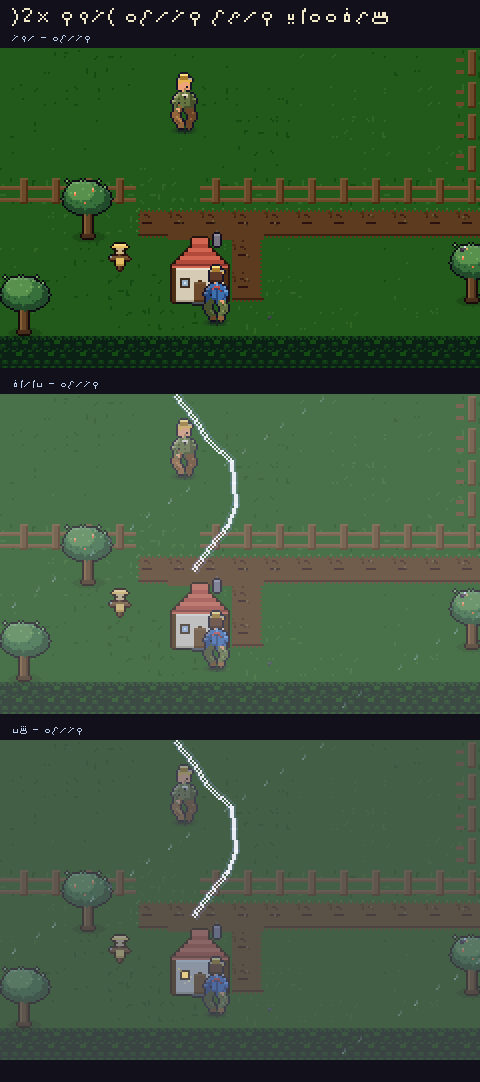
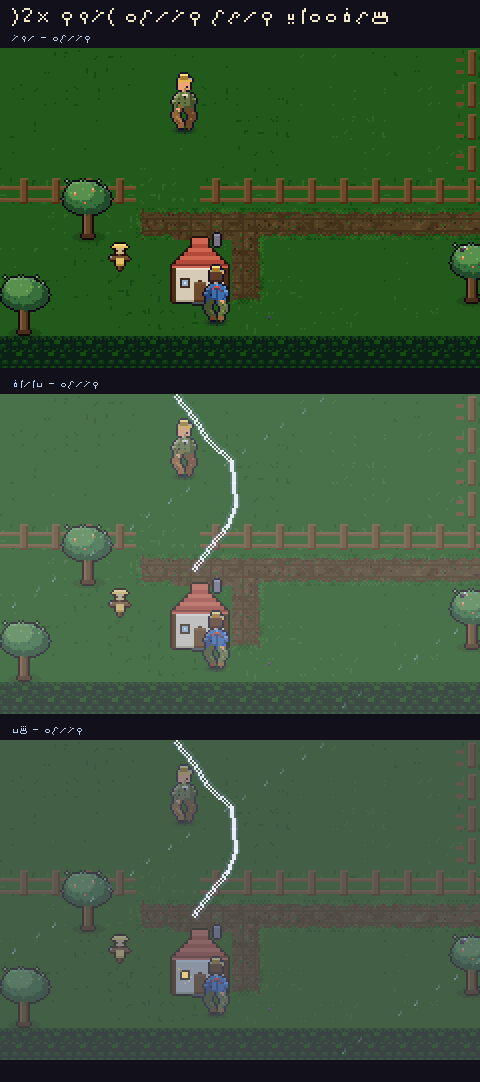
art(S2.5): path variants + grass<->path transition
- ground.js: path sprite = pure dust[4] bed + directional wheel ruts (variant bit0=EW, bit1=NS) so ruts stay continuous between co-oriented tiles
- farm_terrain.js: pathVar() derives the 4 sprite variants from road neighbours (path|gate|house)
- farm_decor.js: drawPathEdge rewritten (same signature) - clustered stains from global fields (vnoise+bayer4, threshold from vnoise(0.08)), chaff ~2%, dithered grass ~2.5%, 2-3px blob47 grass fringe, 1px contact lip, inner-corner notches
- acceptance: M8 farm=0, 0 transparent px, boundary/interior dL ratio 1.03 (0.8-1.25), fringe 100% in 2-3px, ruts 42/42 across L/T/+ test, frame stable, run_all ALL GREEN

diff --git a/game.html b/game.html
@@ -1110,13 +1110,14 @@ function groundSprite(kind, variant = 0, wet = false, waterFrame = 0, theme = 0)
       }
       r.px(2 + Math.floor(h2(variant, 3) * 10), 6 + Math.floor(h2(5, variant) * 8), P.stoneHi);
       if (wet) { r.px(4, 3, E.wet); r.px(11, 9, E.wet); r.px(7, 13, E.wet); r.px(14, 5, E.wet); r.px(2, 11, E.wet); }
-    } else if (kind === 'path') { // خاکراه کوبیده — پر تا لبه تا تایلها پیوسته شوند؛ حاشیهی چمن per-همسایه در drawPathEdge
-      r.rect(0, 0, 16, 16, E.soilHi);
-      for (let i = 0; i < 22; i++) { // بافت خاک: لکههای تیره/روشن قطعی
-        const px = Math.floor(h2(variant * 29 + i, i * 5) * 16), py = Math.floor(h2(i * 7, variant * 11 + i) * 16);
-        r.px(px, py, i % 3 === 0 ? E.soil : (i % 3 === 1 ? E.soilHi : E.soilSh));
-      }
-      r.rect(3 + variant * 4, 7 + variant, 5, 1, E.furrow); // ردّ چرخ/پا
+    } else if (kind === 'path') { // S2.5: خاکراهِ کوبیده — ردِّ چرخِ **جهتدار** (variant: بیت۰=راهِ افقی E/W · بیت۱=راهِ عمودی N/S)
+      // رِیلِ چرخ همراستا با راه کشیده میشود ⇒ بین تایلهای همجهت پیوسته میماند (variant از farm_terrain میآید)
+      const base = rp('dust', 4), rut = rp('dust', 3), ew = variant & 1, ns = variant & 2;
+      r.rect(0, 0, 16, 16, base);
+      if (ew) { r.rect(0, 5, 16, 1, rut); r.rect(0, 11, 16, 1, rut); }
+      if (ns) { r.rect(5, 0, 1, 16, rut); r.rect(11, 0, 1, 16, rut); }
+      // بافتِ سطح **عمداً صفر** است: تُنِ بومیِ تایل فقط base + رِیل است و همهی دانهبندی/لکهها
+      // از میدانهای **جهانی** در drawPathEdge میآید ⇒ جهشِ L در مرزِ دو تایلِ راه ≈۰ (پذیرشِ S2.5: ≤۴)
     } else if (kind === 'hedge') {
       r.rect(0, 0, 16, 16, E.hedgeSh);
       for (const [bx, by] of [[2, 3], [7, 2], [12, 4], [4, 8], [10, 9], [13, 12], [2, 12], [7, 12]]) {
@@ -1760,6 +1761,9 @@ function drawMeadow(r, sx, sy, tx, ty) {
 
 // اسپارکل چشمکزن روی محصول رسیده — از دور قابلدیدن
 
+
+
+
 const _gC = [...rp('gold', 6).slice(0, 3), 0]; // اسپارکل طلایی — نفسکش (S1.3: رنگ از رمپ)
 function drawReadySparkle(r, sx, sy, tx, ty, time, golden = false) {
   if (golden) { // محصول طلایی: ستارهی طلایی درشت همیشهروشن (آلفای نفسکش کوانتیزه)
@@ -1806,22 +1810,61 @@ function drawSaleSign(r, sx, sy, time) {
   r.px(sx + 9, sy + 6 + bob, E.wheatSh);
 }
 
-// حاشیهی نرم خاکراه: هر ضلعی که همسایهاش راه/دروازه/خانه نیست با چمنِ دندانهدار + سایهی لبه نرم میشود
+// ---------- S2.5: خاکراه ----------
+// لبهی راه = حاشیهی چمنِ نامنظمِ ۲–۳px (از blob47) + لکههای خوشهای + سایهی تماس + بریدگیِ گوشههای داخلی
+// همهی میدانها تابعِ **مختصاتِ جهانی**اند ⇒ هیچ درزی در مرزِ دو تایلِ همجنس دیده نمیشود.
 const isP = (c) => !!c && (c.kind === 'path' || c.kind === 'gate' || c.kind === 'house');
-function drawPathEdge(r, sx, sy, tx, ty, f) {
-  const U = !isP(f.cell(tx, ty - 1)), D = !isP(f.cell(tx, ty + 1)), L = !isP(f.cell(tx - 1, ty)), R = !isP(f.cell(tx + 1, ty));
-  for (let i = 0; i < 16; i++) {
-    const j = hash(tx * 16 + i, ty * 7) < 0.5 ? 1 : 2, k = (i + tx) & 1;
-    if (U) { r.px(sx + i, sy, E.grass); if (k) r.px(sx + i, sy + 1, E.grass); if (j === 2 && k) r.px(sx + i, sy + 2, E.grassSh); }
-    if (D) { r.px(sx + i, sy + 15, E.grass); if (!k) r.px(sx + i, sy + 14, E.grass); r.px(sx + i, sy + 13 + (k ? 0 : 1) * 0, E.soilSh); }
-    const m = hash(tx * 5, ty * 16 + i) < 0.5 ? 1 : 2, n = (i + ty) & 1;
-    if (L) { r.px(sx, sy + i, E.grass); if (n) r.px(sx + 1, sy + i, E.grass); if (m === 2 && n) r.px(sx + 2, sy + i, E.grassSh); }
-    if (R) { r.px(sx + 15, sy + i, E.grass); if (!n) r.px(sx + 14, sy + i, E.grass); }
+const tuftN = (gx, gy) => vnoise(gx * 0.3, gy * 0.3, 62) * 0.6 + bayer4(gx, gy) * 0.4; // همان میدانِ تافتِ S2.4
+const gTone = (gx, gy) => { const n = tuftN(gx, gy); return n < 0.30 ? rp('grass', 3) : (n < 0.64 ? rp('grass', 4) : rp('grass', 5)); };
+function cornerNotch(r, sx, sy, cx, cy, gx0, gy0) { // بریدگیِ مثلثیِ چمن در گوشهی داخلیِ پیچِ راه
+  for (let d = 0; d < 3; d++) for (let e = 0; e <= 2 - d; e++) {
+    const x = cx ? 15 - e : e, y = cy ? 15 - d : d;
+    r.px(sx + x, sy + y, gTone(gx0 + x, gy0 + y));
   }
-  const hp = hash(tx * 13, ty * 29); // سنگریزهی پراکنده، نه تکرار یکنواخت در هر تایل
-  if (hp < 0.4) { const qx = 3 + Math.floor(hash(tx, ty * 3) * 9), qy = 3 + Math.floor(hash(tx * 3, ty) * 9); r.px(sx + qx, sy + qy, rp('dust', 6)); r.px(sx + qx + 1, sy + qy + 1, rp('dust', 3)); } // S1.3: سنگریزه از رمپ
-  if (U) for (let i = 0; i < 16; i += 5) r.px(sx + i + 1, sy, E.grassBlade);
-  if (L) for (let i = 0; i < 16; i += 5) r.px(sx, sy + i + 1, E.grassBlade);
+}
+function drawPathEdge(r, sx, sy, tx, ty, f) {
+  const m = mask8((x, y) => isP(f.cell(x, y)), tx, ty), mk = IDX_MASK[blob47(m)];
+  const gx0 = tx * 16, gy0 = ty * 16, ew = (m & 4) || (m & 64), ns = (m & 1) || (m & 16); // جهتِ راه = همان واریانتِ ground.js
+  // ۱) لکههای خوشهایِ سطحِ راه (n و آستانه هر دو جهانی ⇒ پیوسته بین تایلها) + اشغالِ پراکنده
+  const lo = rp('dust', 3), hi = rp('dust', 5), chip = rp('dust', 2);
+  for (let y = 0; y < 16; y++) for (let x = 0; x < 16; x++) {
+    if ((ew && (y === 5 || y === 11)) || (ns && (x === 5 || x === 11))) continue; // رِیلِ چرخ دستنخورده
+    const gx = gx0 + x, gy = gy0 + y, h = hash2(gx, gy, 76);
+    const n = vnoise(gx * 0.42, gy * 0.42, 71) * 0.78 + bayer4(gx, gy) * 0.22, dn = vnoise(gx * 0.08, gy * 0.08, 73);
+    if (h > 0.975) r.px(sx + x, sy + y, gTone(gx, gy));          // علفِ پراکنده روی خاک (dither ~۲٫۵٪)
+    else if (h < 0.02) r.px(sx + x, sy + y, chip);               // خاشاک/سنگریزهی تیره ~۲٪
+    else if (n > 0.60 + dn * 0.06) r.px(sx + x, sy + y, lo);     // لکهی کوبیدهی تیره
+    else if (n < 0.27 - dn * 0.05) r.px(sx + x, sy + y, hi);     // لکهی روشنِ خاک
+  }
+  // ۲) حاشیهی چمن روی ضلعهای بیهمسایهٔ راه: عرض از هشِ مختصاتِ جهانیِ «در طولِ لبه» ⇒ لبه در طولِ راه پیوسته
+  const fringe = (side, horiz, fromStart) => {
+    for (let i = 0; i < 16; i++) {
+      const h = hash2(side * 31 + 7, horiz ? gx0 + i : gy0 + i, 77);          // عرض از هشِ «در طولِ لبه» ⇒ لبه در طولِ راه پیوسته
+      const w = 2 + (h > 0.62 ? 1 : 0);                                        // بریدگیِ ۲–۳px (~۴۰٪ سهپیکسلی)
+      for (let d = 0; d < w; d++) {
+        const x = horiz ? i : d, y = horiz ? d : i;
+        r.px(sx + (fromStart ? x : 15 - x), sy + (fromStart ? y : 15 - y), gTone(gx0 + x, gy0 + y));
+      }
+      if (h > 0.25) { // ۳) سایهی تماسِ ۱px زیرِ لبه (راه فرورفته دیده میشود)
+        const x = horiz ? i : w, y = horiz ? w : i;
+        r.px(sx + (fromStart ? x : 15 - x), sy + (fromStart ? y : 15 - y), rp('dust', 3));
+      }
+      if (h > 0.90) { // چمنِ پراکنده روی خاکِ مجاورِ لبه (با یک پیکسل فاصله تا «عرضِ حاشیه» نشکند)
+        const x = horiz ? i : w + 2, y = horiz ? w + 2 : i;
+        if (!((ew && (y === 5 || y === 11)) || (ns && (x === 5 || x === 11)))) // رویِ رِیلِ چرخ نگذار
+          r.px(sx + (fromStart ? x : 15 - x), sy + (fromStart ? y : 15 - y), rp('grass', 4));
+      }
+    }
+  };
+  if (!(mk & 1)) fringe(0, true, true);     // N بیهمسایه
+  if (!(mk & 16)) fringe(1, true, false);   // S
+  if (!(mk & 64)) fringe(2, false, true);   // W
+  if (!(mk & 4)) fringe(3, false, false);   // E
+  // ۴) گوشههای داخلیِ پیچِ راه: قطرش راه نیست ⇒ مثلثِ چمن
+  if ((m & 1) && (m & 4) && !(m & 2)) cornerNotch(r, sx, sy, 1, 0, gx0, gy0);
+  if ((m & 4) && (m & 16) && !(m & 8)) cornerNotch(r, sx, sy, 1, 1, gx0, gy0);
+  if ((m & 16) && (m & 64) && !(m & 32)) cornerNotch(r, sx, sy, 0, 1, gx0, gy0);
+  if ((m & 64) && (m & 1) && !(m & 128)) cornerNotch(r, sx, sy, 0, 0, gx0, gy0);
 }
 
 return {drawMeadow, drawReadySparkle, drawWaterLife, drawSaleSign, drawPathEdge};
@@ -2509,13 +2552,18 @@ function tuftBake(r, sx, sy, tx, ty) {
     }
   }
 }
+// S2.5: راهِ همجنس (خاکراه/دروازه/خانه) — مبنای واریانتِ راه و حاشیهی چمنِ drawPathEdge
+const isRoad = (c) => !!c && (c.kind === 'path' || c.kind === 'gate' || c.kind === 'house');
+const pathVar = (f, tx, ty) => // بیت۰: راهِ افقی (E/W) · بیت۱: راهِ عمودی (N/S) ⇒ ۴ واریانت
+  ((isRoad(f.cell(tx - 1, ty)) || isRoad(f.cell(tx + 1, ty))) ? 1 : 0) |
+  ((isRoad(f.cell(tx, ty - 1)) || isRoad(f.cell(tx, ty + 1))) ? 2 : 0);
 // ترتیب رسمِ قدیمیِ یک تایل استاتیک — عیناً از farm_render منتقل شد
 function bakeTile(f, tx, ty, r, wf = 0) {
   const c = f.cell(tx, ty); if (!c) return;
   const sx = tx * TILE, sy = ty * TILE;
   let base;
   if (c.kind === 'grass') base = groundSprite('grass', (hash2(tx, ty, 31) * 8) | 0); // S2.4: واریانت از hashِ مختصات
-  else if (c.kind === 'path') base = groundSprite('path', c.variant & 1);
+  else if (c.kind === 'path') base = groundSprite('path', pathVar(f, tx, ty)); // S2.5: واریانتِ جهتدار
   else if (c.kind === 'tree') base = groundSprite('grass', (hash2(tx, ty, 32) * 8) | 0);
   else if (c.kind === 'soil') base = groundSprite('soil', 0, c.wet);
   else if (c.kind === 'water') base = groundSprite('water', (tx * 5 + ty * 3) & 3, false, wf);

diff --git a/js/art/farm_decor.js b/js/art/farm_decor.js
@@ -27,6 +27,9 @@ export function drawMeadow(r, sx, sy, tx, ty) {
 
 // اسپارکل چشمکزن روی محصول رسیده — از دور قابلدیدن
 import { rp } from './ramps.js';
+import { vnoise, hash2 } from './noise.js';           // S2.5: میدانهای نویزِ جهانی (hash2 توزیعِ یکنواخت دارد؛ hash محلی سوگیریِ پایینی دارد)
+import { bayer4 } from './dither.js';
+import { mask8, blob47, IDX_MASK } from './autotile.js';
 const _gC = [...rp('gold', 6).slice(0, 3), 0]; // اسپارکل طلایی — نفسکش (S1.3: رنگ از رمپ)
 export function drawReadySparkle(r, sx, sy, tx, ty, time, golden = false) {
   if (golden) { // محصول طلایی: ستارهی طلایی درشت همیشهروشن (آلفای نفسکش کوانتیزه)
@@ -73,20 +76,59 @@ export function drawSaleSign(r, sx, sy, time) {
   r.px(sx + 9, sy + 6 + bob, E.wheatSh);
 }
 
-// حاشیهی نرم خاکراه: هر ضلعی که همسایهاش راه/دروازه/خانه نیست با چمنِ دندانهدار + سایهی لبه نرم میشود
+// ---------- S2.5: خاکراه ----------
+// لبهی راه = حاشیهی چمنِ نامنظمِ ۲–۳px (از blob47) + لکههای خوشهای + سایهی تماس + بریدگیِ گوشههای داخلی
+// همهی میدانها تابعِ **مختصاتِ جهانی**اند ⇒ هیچ درزی در مرزِ دو تایلِ همجنس دیده نمیشود.
 const isP = (c) => !!c && (c.kind === 'path' || c.kind === 'gate' || c.kind === 'house');
-export function drawPathEdge(r, sx, sy, tx, ty, f) {
-  const U = !isP(f.cell(tx, ty - 1)), D = !isP(f.cell(tx, ty + 1)), L = !isP(f.cell(tx - 1, ty)), R = !isP(f.cell(tx + 1, ty));
-  for (let i = 0; i < 16; i++) {
-    const j = hash(tx * 16 + i, ty * 7) < 0.5 ? 1 : 2, k = (i + tx) & 1;
-    if (U) { r.px(sx + i, sy, E.grass); if (k) r.px(sx + i, sy + 1, E.grass); if (j === 2 && k) r.px(sx + i, sy + 2, E.grassSh); }
-    if (D) { r.px(sx + i, sy + 15, E.grass); if (!k) r.px(sx + i, sy + 14, E.grass); r.px(sx + i, sy + 13 + (k ? 0 : 1) * 0, E.soilSh); }
-    const m = hash(tx * 5, ty * 16 + i) < 0.5 ? 1 : 2, n = (i + ty) & 1;
-    if (L) { r.px(sx, sy + i, E.grass); if (n) r.px(sx + 1, sy + i, E.grass); if (m === 2 && n) r.px(sx + 2, sy + i, E.grassSh); }
-    if (R) { r.px(sx + 15, sy + i, E.grass); if (!n) r.px(sx + 14, sy + i, E.grass); }
+const tuftN = (gx, gy) => vnoise(gx * 0.3, gy * 0.3, 62) * 0.6 + bayer4(gx, gy) * 0.4; // همان میدانِ تافتِ S2.4
+const gTone = (gx, gy) => { const n = tuftN(gx, gy); return n < 0.30 ? rp('grass', 3) : (n < 0.64 ? rp('grass', 4) : rp('grass', 5)); };
+function cornerNotch(r, sx, sy, cx, cy, gx0, gy0) { // بریدگیِ مثلثیِ چمن در گوشهی داخلیِ پیچِ راه
+  for (let d = 0; d < 3; d++) for (let e = 0; e <= 2 - d; e++) {
+    const x = cx ? 15 - e : e, y = cy ? 15 - d : d;
+    r.px(sx + x, sy + y, gTone(gx0 + x, gy0 + y));
   }
-  const hp = hash(tx * 13, ty * 29); // سنگریزهی پراکنده، نه تکرار یکنواخت در هر تایل
-  if (hp < 0.4) { const qx = 3 + Math.floor(hash(tx, ty * 3) * 9), qy = 3 + Math.floor(hash(tx * 3, ty) * 9); r.px(sx + qx, sy + qy, rp('dust', 6)); r.px(sx + qx + 1, sy + qy + 1, rp('dust', 3)); } // S1.3: سنگریزه از رمپ
-  if (U) for (let i = 0; i < 16; i += 5) r.px(sx + i + 1, sy, E.grassBlade);
-  if (L) for (let i = 0; i < 16; i += 5) r.px(sx, sy + i + 1, E.grassBlade);
+}
+export function drawPathEdge(r, sx, sy, tx, ty, f) {
+  const m = mask8((x, y) => isP(f.cell(x, y)), tx, ty), mk = IDX_MASK[blob47(m)];
+  const gx0 = tx * 16, gy0 = ty * 16, ew = (m & 4) || (m & 64), ns = (m & 1) || (m & 16); // جهتِ راه = همان واریانتِ ground.js
+  // ۱) لکههای خوشهایِ سطحِ راه (n و آستانه هر دو جهانی ⇒ پیوسته بین تایلها) + اشغالِ پراکنده
+  const lo = rp('dust', 3), hi = rp('dust', 5), chip = rp('dust', 2);
+  for (let y = 0; y < 16; y++) for (let x = 0; x < 16; x++) {
+    if ((ew && (y === 5 || y === 11)) || (ns && (x === 5 || x === 11))) continue; // رِیلِ چرخ دستنخورده
+    const gx = gx0 + x, gy = gy0 + y, h = hash2(gx, gy, 76);
+    const n = vnoise(gx * 0.42, gy * 0.42, 71) * 0.78 + bayer4(gx, gy) * 0.22, dn = vnoise(gx * 0.08, gy * 0.08, 73);
+    if (h > 0.975) r.px(sx + x, sy + y, gTone(gx, gy));          // علفِ پراکنده روی خاک (dither ~۲٫۵٪)
+    else if (h < 0.02) r.px(sx + x, sy + y, chip);               // خاشاک/سنگریزهی تیره ~۲٪
+    else if (n > 0.60 + dn * 0.06) r.px(sx + x, sy + y, lo);     // لکهی کوبیدهی تیره
+    else if (n < 0.27 - dn * 0.05) r.px(sx + x, sy + y, hi);     // لکهی روشنِ خاک
+  }
+  // ۲) حاشیهی چمن روی ضلعهای بیهمسایهٔ راه: عرض از هشِ مختصاتِ جهانیِ «در طولِ لبه» ⇒ لبه در طولِ راه پیوسته
+  const fringe = (side, horiz, fromStart) => {
+    for (let i = 0; i < 16; i++) {
+      const h = hash2(side * 31 + 7, horiz ? gx0 + i : gy0 + i, 77);          // عرض از هشِ «در طولِ لبه» ⇒ لبه در طولِ راه پیوسته
+      const w = 2 + (h > 0.62 ? 1 : 0);                                        // بریدگیِ ۲–۳px (~۴۰٪ سهپیکسلی)
+      for (let d = 0; d < w; d++) {
+        const x = horiz ? i : d, y = horiz ? d : i;
+        r.px(sx + (fromStart ? x : 15 - x), sy + (fromStart ? y : 15 - y), gTone(gx0 + x, gy0 + y));
+      }
+      if (h > 0.25) { // ۳) سایهی تماسِ ۱px زیرِ لبه (راه فرورفته دیده میشود)
+        const x = horiz ? i : w, y = horiz ? w : i;
+        r.px(sx + (fromStart ? x : 15 - x), sy + (fromStart ? y : 15 - y), rp('dust', 3));
+      }
+      if (h > 0.90) { // چمنِ پراکنده روی خاکِ مجاورِ لبه (با یک پیکسل فاصله تا «عرضِ حاشیه» نشکند)
+        const x = horiz ? i : w + 2, y = horiz ? w + 2 : i;
+        if (!((ew && (y === 5 || y === 11)) || (ns && (x === 5 || x === 11)))) // رویِ رِیلِ چرخ نگذار
+          r.px(sx + (fromStart ? x : 15 - x), sy + (fromStart ? y : 15 - y), rp('grass', 4));
+      }
+    }
+  };
+  if (!(mk & 1)) fringe(0, true, true);     // N بیهمسایه
+  if (!(mk & 16)) fringe(1, true, false);   // S
+  if (!(mk & 64)) fringe(2, false, true);   // W
+  if (!(mk & 4)) fringe(3, false, false);   // E
+  // ۴) گوشههای داخلیِ پیچِ راه: قطرش راه نیست ⇒ مثلثِ چمن
+  if ((m & 1) && (m & 4) && !(m & 2)) cornerNotch(r, sx, sy, 1, 0, gx0, gy0);
+  if ((m & 4) && (m & 16) && !(m & 8)) cornerNotch(r, sx, sy, 1, 1, gx0, gy0);
+  if ((m & 16) && (m & 64) && !(m & 32)) cornerNotch(r, sx, sy, 0, 1, gx0, gy0);
+  if ((m & 64) && (m & 1) && !(m & 128)) cornerNotch(r, sx, sy, 0, 0, gx0, gy0);
 }

diff --git a/js/art/ground.js b/js/art/ground.js
@@ -61,13 +61,14 @@ export function groundSprite(kind, variant = 0, wet = false, waterFrame = 0, the
       }
       r.px(2 + Math.floor(h2(variant, 3) * 10), 6 + Math.floor(h2(5, variant) * 8), P.stoneHi);
       if (wet) { r.px(4, 3, E.wet); r.px(11, 9, E.wet); r.px(7, 13, E.wet); r.px(14, 5, E.wet); r.px(2, 11, E.wet); }
-    } else if (kind === 'path') { // خاکراه کوبیده — پر تا لبه تا تایلها پیوسته شوند؛ حاشیهی چمن per-همسایه در drawPathEdge
-      r.rect(0, 0, 16, 16, E.soilHi);
-      for (let i = 0; i < 22; i++) { // بافت خاک: لکههای تیره/روشن قطعی
-        const px = Math.floor(h2(variant * 29 + i, i * 5) * 16), py = Math.floor(h2(i * 7, variant * 11 + i) * 16);
-        r.px(px, py, i % 3 === 0 ? E.soil : (i % 3 === 1 ? E.soilHi : E.soilSh));
-      }
-      r.rect(3 + variant * 4, 7 + variant, 5, 1, E.furrow); // ردّ چرخ/پا
+    } else if (kind === 'path') { // S2.5: خاکراهِ کوبیده — ردِّ چرخِ **جهتدار** (variant: بیت۰=راهِ افقی E/W · بیت۱=راهِ عمودی N/S)
+      // رِیلِ چرخ همراستا با راه کشیده میشود ⇒ بین تایلهای همجهت پیوسته میماند (variant از farm_terrain میآید)
+      const base = rp('dust', 4), rut = rp('dust', 3), ew = variant & 1, ns = variant & 2;
+      r.rect(0, 0, 16, 16, base);
+      if (ew) { r.rect(0, 5, 16, 1, rut); r.rect(0, 11, 16, 1, rut); }
+      if (ns) { r.rect(5, 0, 1, 16, rut); r.rect(11, 0, 1, 16, rut); }
+      // بافتِ سطح **عمداً صفر** است: تُنِ بومیِ تایل فقط base + رِیل است و همهی دانهبندی/لکهها
+      // از میدانهای **جهانی** در drawPathEdge میآید ⇒ جهشِ L در مرزِ دو تایلِ راه ≈۰ (پذیرشِ S2.5: ≤۴)
     } else if (kind === 'hedge') {
       r.rect(0, 0, 16, 16, E.hedgeSh);
       for (const [bx, by] of [[2, 3], [7, 2], [12, 4], [4, 8], [10, 9], [13, 12], [2, 12], [7, 12]]) {

diff --git a/js/farm_terrain.js b/js/farm_terrain.js
@@ -41,13 +41,18 @@ function tuftBake(r, sx, sy, tx, ty) {
     }
   }
 }
+// S2.5: راهِ همجنس (خاکراه/دروازه/خانه) — مبنای واریانتِ راه و حاشیهی چمنِ drawPathEdge
+const isRoad = (c) => !!c && (c.kind === 'path' || c.kind === 'gate' || c.kind === 'house');
+const pathVar = (f, tx, ty) => // بیت۰: راهِ افقی (E/W) · بیت۱: راهِ عمودی (N/S) ⇒ ۴ واریانت
+  ((isRoad(f.cell(tx - 1, ty)) || isRoad(f.cell(tx + 1, ty))) ? 1 : 0) |
+  ((isRoad(f.cell(tx, ty - 1)) || isRoad(f.cell(tx, ty + 1))) ? 2 : 0);
 // ترتیب رسمِ قدیمیِ یک تایل استاتیک — عیناً از farm_render منتقل شد
 function bakeTile(f, tx, ty, r, wf = 0) {
   const c = f.cell(tx, ty); if (!c) return;
   const sx = tx * TILE, sy = ty * TILE;
   let base;
   if (c.kind === 'grass') base = groundSprite('grass', (hash2(tx, ty, 31) * 8) | 0); // S2.4: واریانت از hashِ مختصات
-  else if (c.kind === 'path') base = groundSprite('path', c.variant & 1);
+  else if (c.kind === 'path') base = groundSprite('path', pathVar(f, tx, ty)); // S2.5: واریانتِ جهتدار
   else if (c.kind === 'tree') base = groundSprite('grass', (hash2(tx, ty, 32) * 8) | 0);
   else if (c.kind === 'soil') base = groundSprite('soil', 0, c.wet);
   else if (c.kind === 'water') base = groundSprite('water', (tx * 5 + ty * 3) & 3, false, wf);

diff --git a/MEMORY.md b/MEMORY.md
@@ -26,7 +26,7 @@ farm-dungeon/   (کل ورکاسپیس ۲٫۵MB — بیرون فقط uploads
     │   · fx⟨129⟩ ذرات/وینیت-فقط-دانجن · night⟨26⟩ LUT شب · i18n⟨126⟩ fa/en+t() · save⟨73⟩ v6+migrate · input⟨86⟩ کیبورد+لمس
     │   · ui⟨160⟩ توست/منو/آیکون · quests⟨51⟩ چرخان×۳ · items⟨79⟩ ۱۲ پوشیدنی+دراپ
     ├── مزرعه ⟨۱۲⟩: game⟨199⟩ حرکت/صف/سیب · game_apply⟨71⟩ ابزار+اقتصاد برداشت · farm⟨135⟩ گرید+CROPS+WATER_TIME+soak/_wetBare+`onCell`/`onAll`
-    │   · **farm_terrain⟨139⟩ کش زمین + markDirty/flushDirty (+۸ همسایه) + OPAQUE (S2.1) + واریانت/ماکروِ چمن (S2.4: tuftBake)** · farm_layout⟨76⟩ · farm_command⟨90⟩ تپ→nearFree · farm_worker⟨184⟩ · farm_render⟨133⟩ (blit کش + لایههای پویا)
+    │   · **farm_terrain⟨145⟩ کش زمین + markDirty/flushDirty (+۸ همسایه) + OPAQUE (S2.1) + واریانت/ماکروِ چمن (S2.4: tuftBake) + pathVar (S2.5)** · farm_layout⟨76⟩ · farm_command⟨90⟩ تپ→nearFree · farm_worker⟨184⟩ · farm_render⟨133⟩ (blit کش + لایههای پویا)
     │   · app⟨201⟩ UPG/MEALS/آفلاین/serializeFarm · app_ui⟨127⟩ چسب DOM · ui_hud⟨69⟩ · ui_shrine⟨48⟩
     ├── دانجن ⟨۱۱+۲۲⟩: main_app⟨192⟩ بوت/ورودی/حلقه/سیو (entry بیلدر — «یتیم» نیست!) · main_scene⟨99⟩ fade/ورود-خروج/bankRun
     │   · run⟨255⟩ حرکت/طبقه/مهارت/دوج/برکت/chill-ریست · run_combat⟨90⟩ حملهی خودکار/runHit · run_loot⟨83⟩ · run_render⟨220⟩ (تاج بعد از اسپرایت، اسپلش زیر موجودیتها)
@@ -34,7 +34,7 @@ farm-dungeon/   (کل ورکاسپیس ۲٫۵MB — بیرون فقط uploads
     │   · dungeon/ (۲۲ فایل ~۲۷ خطی): bp01…bp21.js + bp_boss.js — هرکدام `export const BPXX={name,rows}` ۳۰×۲۰
     │   · monster⟨129⟩ STATS+نخبه+کش اسپرایت · mobs_new⟨174⟩ AI_EXT تیرانداز/یورش/دزدی/جهش + MOB_TAGS · projectiles⟨43⟩ تیر/گوی
     ├── art/ ⟨۳۳⟩: **noise⟨44⟩ hash2/vnoise/fbm/tileNoise/tileFbm (قطعی، بیدرز) · dither⟨22⟩ Bayer2/4/8 بازگشتی + ditherStep (مختصات جهانی) — S2.3** · **autotile⟨95⟩ mask4/mask8/blob47(canon)+IDX_MASK/BLOB_MIRROR + کش عددیِ autoSprite/setAutoBuilder (S2.2)** · **ramps⟨69⟩ + palette_master⟨95⟩ (S1.1/S1.2 — منبع واحد رنگ؛ S1.3+ مصرف)** · پالت — palette_env⟨S1.3: ۵۱ کلید E از رمپ (EMAP)⟩ P→E+کش اسپرایت · palette_hero⟨36⟩ · palette_snap⟨27⟩ قفلپالت قهرمان/کارگر (S1.6) · recolor⟨38⟩ · quality⟨3⟩
-    │   · محیط — ground⟨246⟩ DTHEME×۴+فرش+آب زنده + **چمنِ ۸واریانتی (S2.4: خوشههای ۲–۳px، بدون گل)** · dungeon_depth⟨42⟩ DPAL تکمنبع · dungeon_props⟨111⟩ · farm_decor⟨73⟩
+    │   · محیط — ground⟨250⟩ DTHEME×۴+فرش+آب زنده + **چمنِ ۸واریانتی (S2.4: خوشههای ۲–۳px، بدون گل)** · dungeon_depth⟨42⟩ DPAL تکمنبع · dungeon_props⟨111⟩ · farm_decor⟨133⟩ (S2.5: drawPathEdge بازنویسیشده = لکه/حاشیه/سایه/گوشه)
     │   │   · farm_buildings⟨119⟩ · tree⟨55⟩ · weather⟨91⟩ · critters⟨64⟩ · light⟨69⟩ applyDarkness+LUT · rim⟨23⟩ · outline⟨75⟩ inkOutline/bakeOutline (S1.7: sel=پلهٔ تیرهٔ هر ماده، L∈[۱۴،۲۴])
     │   · قهرمان — hero_pose⟨131⟩ ریاضی پوز+HOX/HOY · hero⟨261⟩ رسم+halfSprite+S1.6 (رأیاکثریت) + S1.7 (حلقهٔ ink) · equipment⟨99⟩
     │   · هیولا — monster_parts⟨73⟩ MC/MOX/MOY/MHEAD(۱۴جور) · monster_bodies⟨280⟩ ۷ کلاسیک→MBODY_A · monster_bodies2⟨261⟩ ۷ نوی۴۴
@@ -45,6 +45,7 @@ farm-dungeon/   (کل ورکاسپیس ۲٫۵MB — بیرون فقط uploads
 ```
 
 ## ✅ وضعیت (هر نوبت یک خط — جزئیات در شیت/اسکریپت همان نوبت)
+- **ن۶۶: S2.5 ✅ خاکراه: ۴ واریانتِ جهتدار + لکههای خوشهای + حاشیهٔ ۲–۳px** — اسپرایتِ راه = تُنِ خالصِ `dust[4]` + **رِیلِ چرخِ جهتدار** (بیت۰ = E/W · بیت۱ = N/S؛ `pathVar` همسایههای راه|دروازه|خانه را میبیند) ⇒ رِیل بین تایلهای همجهت **پیوسته** (۱۸ جفتِ مرزی، ۰ ناهمسانی). **همهی بافت از میدانهای جهانی**: `drawPathEdge` با همان امضا بازنویسی شد (⇒ کلِ نشست فقط ۳ فایل ویرایشی) — لکههای `dust[3]`/`dust[5]` با `vnoise(۰٫۴۲)·۰٫۷۸+bayer4·۰٫۲۲` و آستانهٔ `vnoise(۰٫۰۸)` (جهانی ⇒ بیدرز)، خاشاکِ `dust[2]` ~۲٪ و علفِ پراکنده با dither ~۲٫۵٪؛ **حاشیه** با `mask8`+`blob47/IDX_MASK`: بریدگیِ ۲–۳px (~۴۰٪ سهپیکسلی) + سایهٔ تماسِ ۱px + چمنِ پراکنده، و **گوشهٔ داخلیِ پیچ** = مثلثِ چمنِ ۶px. **پذیرش ✓**: **ΔL مرزِ راه↔راه ۶٫۵۵ ≈ درونِ راه ۶٫۳۵ ⇒ نسبت ۱٫۰۳** (قید ۰٫۸–۱٫۲۵) · **M8=۰** · **M6 مزرعه ۱٫۰۰** · **صفر پیکسلِ شفاف** در کلِ کش · حاشیه ۲۹۶ نمونه = ۱۸۰×۲px + ۱۱۶×۳px ⇒ **۱۰۰٪ در بازهٔ ۲–۳px** · ۴ واریانتِ یکتا · M7 ۶٫۵٪ · پایداری فریم · تستِ L/T/+ (۱۳ تایل دستی): رِیل ۴۲/۴۲ در دو جهت + ۴/۴ پیوندِ مرزی + گوشهٔ داخلی ✓ + مرزِ رو به راه پاک · run_all سبز · شیت/ref/baseline بازتولید. نشست بعدی: **S2.6** (خاکِ شخمخوردهٔ متصل + خیس)
 - **ن۶۵: S2.4 ✅ چمن ۸ واریانت + نویز ماکرو** — خوشههای ۲–۳px (خطی افقی/عمودی + خمِ L) از `hash2` با seedِ واریانت، **بدون گل**؛ کش `groundSprite` به ۶۴ اسلات/کیند پهن شد؛ واریانت per تایل = `hash2(tx,ty)`. **ماکرو**: `fbm`≈۱/۴۰px ⇒ جهت/چگالیِ تافت (`p=۰٫۱۴+min(۰٫۵۸,|m|·۱٫۷)`، نگهداشتن با `vnoise(۰٫۳)·۰٫۶+bayer4·۰٫۴`) — **تلاشِ بلوکیِ اول (جابهجایی تُنِ کل تایل) در بازبینی چشمی رد شد (شطرنجی)**. **پذیرش ✓**: M6 ۰٫۵۹→**۰٫۹۷**، M7 ۴۵٫۸→**۶٫۵٪**، ΔL درونتایل **۱۳٫۷≤۱۴**، رنگ چمن **۳**، ۸/۸ واریانت، M8=۰، استاتیک، dirty-tile سالم (۹ تایل/تغییر)، M11 ۰٫۳۶۳ms، run_all سبز، شیت/ref/baseline بازتولید. نشست بعدی: **S2.5** (خاکراه + ترنزیشن چمن↔راه)
 - **ن۶۴: S2.3 ✅ `art/noise.js` + `art/dither.js`** — `hash2` (Math.imul، [0,1)) · `vnoise` (smoothstep) · `fbm(oct=2)` · **`tileNoise(x,y,period,seed)`** (شبکه modulo ⇒ تایلِ ۱۶×۱۶ بیدرز) + `tileFbm`؛ `BAYER2/4/8` (۸ بازگشتی از ۴) · `bayer2/4/8` در (۰،۱) · **`ditherStep(v,levels,x,y)` = اندیس پله** با آستانهٔ ترتیبی و مختصات جهانی. هر دو در BASE. **پذیرش ✓**: ۲۴ سنجه ALL GREEN — دورهای بودنِ دقیق (۸٫۹e−۱۶)، **پرشِ درز ≤ بیشینهٔ پرشِ داخل** (۰٫۹۱۷≤۰٫۹۸۱)، کاشیکاری همسایه یکسان، hash2 یکنواخت (۱۰٫۹٪)، vnoise هموار/پیوسته، bayer4 میانگین ۰٫۵، ditherStep یکنوا + میانگین پنجرهٔ ۴×۴ روی مرزِ تایل درست + ۸/۱۶ در v=۰٫۵، **قطعی بین دو پروسه** (`6b0435e238da`)، صفر Math.random (حتی در کامنت)، ۴۴+۲۲ خط، برابری رندر با `249186c`، run_all سبز. نشست بعدی: **S2.4** (چمن ۸ واریانت + نویز ماکرو)
 - **ن۶۳: S2.2 ✅ `art/autotile.js`** — mask4 (N/E/S/W=1/2/4/8) · mask8 (N=1…NW=128) · `canon8` (گوشه فقط با هر دو ضلع مجاور) · `blob47` (جدول عددی ۲۵۶تایی: ۲۵۶ ⇒ **دقیقاً ۴۷**)، `IDX_MASK` (اندیس→ماسک)، `BLOB_MIRROR` (+`mirror8`). شمارهگذاری: ماسک ضلع صعودی، سپس زیرمجموعههای گوشههای مجاز (NE,SE,SW,NW). کش لیز با **کلید عددی بیتچین** (theme|variant|idx|kind) و سازندهٔ تزریقی `setAutoBuilder(fn,{opaque})`؛ پیشفرضِ موقت = پایهٔ `groundSprite` + خط ۱px در ضلعهای بیهمسایه (تا S2.4/S2.6). `KIND_ID` صادر شد. **پذیرش ✓**: تست ۲۸ سنجه ALL GREEN (۴۷ یکتا · ۴۷ کانونیک · همهٔ اندیسها از همسایگی ۳×۳ واقعی · آینه اینولوشن+جایگشت · **۴۰۰هزار فراخوانی ⇒ رشد هیپ ≈۰** (۰٫۰۳µs/هر) · ۷۵۲ تایل کش) · برابری رندر با `83d8215` بایتبهبایت · run_all ALL GREEN. نشست بعدی: **S2.3** (`art/noise.js` + `art/dither.js`)
@@ -61,7 +62,7 @@ farm-dungeon/   (کل ورکاسپیس ۲٫۵MB — بیرون فقط uploads
 - **ن۵۲: S0.3 ✅ art_audit پایدار** — `tools/art_audit.mjs` (M1–M10 عددی + شیت + JSON؛ قطعی=random استاب؛ ۰٫۳ث) + `shots/audit_baseline.json` + `shots/art_audit.png` + ۴ صحنهی مرجع `ref_*.png`؛ **اسکرینشاتهای قدیمی (۶ فایل) بهخواست کاربر حذف شدند**؛ CI: `.github/workflows/ci.yml` (هر push: run_all + art_audit + آپلود آرتیفکت)؛ پایهی سنجهمحور **۲/۱۱ = ۱٫۸/۱۰** — M1 ΔL=۹٫۶ (bat بدترین) · M2=۲۲ · M3 قهرمان ۸۳ رنگ/موب ۵–۹ · M4=۱ باند · M5=۹۷٫۴٪ · M6=۰٫۵۹/۰٫۵۷ · M7=۴۶٫۲٪/۰٫۷٪ · M8=۰/۰ · M9 idle-min=۰٪ (golem یخزده)، حمله ۱۹٫۸/۱۹٫۱٪ · M10=۷–۱۳px×۴؛ همخوانی با ن۴۸: قهرمان ۸۳↔۸۲، موب ۵–۹↔۵–۹، محصول ۷–۱۳↔۷–۱۳، حمله ۱۹٫۸/۱۹٫۱↔۱۵/۱۹، bat بدترین↔bat · نشست بعدی: S0.4
 - **ن۵۱: S0.1 ✅ + S0.2 ✅** — مخزن با توکن کلون شد، `farm-dungeon-roadmap.zip` آنزیپ و ساختار پروژه در ریشهی ریپو (`farm-dungeon/`) قرار گرفت؛ zip حذف؛ `secret_guard: clean`؛ پوش اول `3f61d4c` (local==remote)؛ تگ `art-baseline` لوکال+ریموت · **S0.2**: `tools/setup_tests.sh` + `tools/boot_check.mjs` (۱۰ سناریو jsdom) + `tools/run_all.sh` → `ALL GREEN` در ۲۲ث (boot ۱۰/۱۰ در ۱۹٬۲ث · render5 ۱۵/۱۵ · render6 ۲۷/۲۷) و **بیلد بایتبرابر با game.html موجود (Parity)** · نشست بعدی: S1.5a (موبهای کلاسیک)
 - **ن۵۰: رودمپ آرت v2 تدوین شد** (۵۹ نشست/۹ فاز: P0 زیرساخت · P1 رنگ · P2 تایل مزرعه · P3 تایل دانجن · P4 نور · P5 جزئیات مزرعه · P6 موجودات · P7 UI · P8 پولیش) — کد بازی دستنخورده، فقط `.gitignore` + `tools/push.sh` + `tools/secret_guard.sh` + ROADMAP/roadmap اضافه شد · نشست بعدی: S0.3 · هدف امتیاز آرت ۵٫۵ → ≥ ۸٫۵ (Scoreboard در ROADMAP.md)
-- قابل بازی: game.html روی :8080 · نوبت جاری: **ن۶۵ — S2.4 ✅ چمن ۸ واریانت + ماکرو (M6 ۰٫۹۷ · M7 ۶٫۵٪ · ΔL ۱۳٫۷)؛ P2 ادامه دارد (نشست بعدی S2.5: خاکراه + ترنزیشن)** — کمبودها: **P1 خوانایی** bat ΔL=۳ و فقط ۱۵px، bandit ΔL=۵، spider ۲۱، ghost ۱۰ (نیمهعمدی)، outline اسکلت/کماندار L~۸۶=حاشیه نه outline · **P2 سبک** پالت قهرمان ۸۲ رنگ↔موبها ۵-۹ (ژاکارد ۰٫۰۱۷)، outline غیریکدست (انحراف ۴۲)، اسکلت/کماندار ۲ باند سایه، صفر بافت/dither (فاصلهی اصلی با استاردیو) · **P3** محصول ۴ مرحله (استاردیو ۵) و رسیده ۷-۱۳px، حملهی اسکلت ۱۵٪/کماندار ۱۹٪ کمخوانا، idle hare/golem/boss ۱۱-۱۴٪ یخزده، اسکلت ۲٫۳t>قهرمان ۱٫۸t، گلیف ص/ض/ط/ظ ۸px در شبکهی ۷ · قوتها: خط لولهی منظم، انیمیشن ۴حالته، فونت ۹۵ گلیف، باس≠گولم، صحنه ۱۰۸-۱۷۰ رنگ · سنجهها: shots/art48_review.png (اسکریپت اندازهگیری /tmp/artaudit48.mjs — سنجهها: پالت کوانتیزه >>۴، خوشهی روشنایی ≥۸٪، ΔL در برابر کفِ L=۷۲، ژاکارد، diffRatio)
+- قابل بازی: game.html روی :8080 · نوبت جاری: **ن۶۶ — S2.5 ✅ خاکراه (M6 ۱٫۰۰ · M8=۰ · حاشیه ۲–۳px · رِیل پیوسته · صفر شفاف)؛ P2 ادامه دارد (نشست بعدی S2.6: خاکِ شخمخورده + خیس)** — کمبودها: **P1 خوانایی** bat ΔL=۳ و فقط ۱۵px، bandit ΔL=۵، spider ۲۱، ghost ۱۰ (نیمهعمدی)، outline اسکلت/کماندار L~۸۶=حاشیه نه outline · **P2 سبک** پالت قهرمان ۸۲ رنگ↔موبها ۵-۹ (ژاکارد ۰٫۰۱۷)، outline غیریکدست (انحراف ۴۲)، اسکلت/کماندار ۲ باند سایه، صفر بافت/dither (فاصلهی اصلی با استاردیو) · **P3** محصول ۴ مرحله (استاردیو ۵) و رسیده ۷-۱۳px، حملهی اسکلت ۱۵٪/کماندار ۱۹٪ کمخوانا، idle hare/golem/boss ۱۱-۱۴٪ یخزده، اسکلت ۲٫۳t>قهرمان ۱٫۸t، گلیف ص/ض/ط/ظ ۸px در شبکهی ۷ · قوتها: خط لولهی منظم، انیمیشن ۴حالته، فونت ۹۵ گلیف، باس≠گولم، صحنه ۱۰۸-۱۷۰ رنگ · سنجهها: shots/art48_review.png (اسکریپت اندازهگیری /tmp/artaudit48.mjs — سنجهها: پالت کوانتیزه >>۴، خوشهی روشنایی ≥۸٪، ΔL در برابر کفِ L=۷۲، ژاکارد، diffRatio)
 - ن۴۹: **باگهای ظاهری + پولیش** — (۱) تایلهای fence/fencePost شفاف بودند (بدون چمن زیرشان → سیاهی/ردّ فریم قبل روی بوم) → چمن زیرشان در farm_render · (۲) خاکراه: تایلهای «نانمانند» جدا → تایل پر + حاشیهی دندانهای per-همسایه `drawPathEdge` (farm_decor) + سنگریزهی پراکنده · (۳) دروازهی ۲×۲ دو در روی هم بود → طاق یکپارچه (variant 0 سردر / 1 آستانه) · (۴) گندم رسیده شبیه «میز» → سه سنبلهی طلایی با ریشک · (۵) فونت font2: حروف کوچک لاتین «؟» میشدند (Floor→F????) → نگاشت به بزرگ؛ نیمفاصلهی U+200C «؟» رسم میشد → حذف؛ ارقام داخل جملهی فارسی برعکس بودند (۱۲۳→۳۲۱) → bidi ردیفهای LTR؛ alias آ/أ/ي/ك/٪/—/→ و گلیف ( ) = ·؛ ۳ شبیه «؟» بود → سهقوسی · بیلد+بوت jsdom صفر خطا · شفافیت: صفر پیکسل alpha=0 در مزرعه و ۵ طبقهی دانجن
 - ن۴۷: ۶ فیکس — تاج نخبه MHEAD per-kind (۱۴ جور کالیبره از رندر واقعی) + تاج بعد از اسپرایت (خز وسطش را میخورد) + اسپلش زیر موجودیتها + صدای shoot/fire + chill ریست + monster_registry (همه ≤۲۸۰ خط) · wire سختگیر BASE∪entry 108/108 (۲ صدا import میشدند ولی باندل نبودند!) · qa_all 52 · elite47 4/4 · stage47_elites.gif+montage
 - ن۴۶: پاکسازی ۲۰MB→۴٫۹MB؛ ن۴۷ پالایش به سیاست «فقط فایل جاری» → ۲٫۵MB
@@ -147,6 +148,10 @@ farm-dungeon/   (کل ورکاسپیس ۲٫۵MB — بیرون فقط uploads
 47. سنجهٔ «الگوی dither مکانی است» با ۳ نمونهٔ v=۰٫۵ غلط است → معیار درست: **شمارش در یک بلوک** (۸/۱۶) (ن۶۴)
 48. چکرِ «صفر Math.random» باید کامنتها را هم پاک کند — وگرنه ذکر در کامنت چکر را میشکند (ن۶۴)
 49. با قدمهای رمپ ۱۳–۱۴، قیدِ «ΔL درونِ تایل ≤۱۴» یعنی هر تایل حداکثر **۲ تُنِ مجاور**؛ پس ماکرو باید **چگالی/جهتِ تکسچر** را مدوله کند نه تُنِ کلِ تایل — وگرنه شطرنجی/بلوکی میشود (ن۶۵، در بازبینی چشمی گرفته شد)
+50. `hash` محلیِ `farm_decor.js` فقط بازهٔ [۰، ۰٫۵] میدهد (بایاسِ پایینی) ⇒ آستانههای `>۰٫۶۲`/`>۰٫۹` هرگز فعال نمیشوند؛ برای چگالی/عرض/انتخابِ شاخه از `hash2` (یکنواختِ آزمودهٔ S2.3) استفاده کن (ن۶۶ — با ۲۹۶ نمونه اندازهگیری شد: max=۰٫۵۰۰)
+51. بافتِ **تایلمحور** داخلِ اسپرایت (لکههای هششده per-variant) درزِ ۱۶px میسازد؛ اسپرایتِ سطح باید تُنِ بومیِ خالص (base + رِیل) بدهد و همهٔ لکه/دانهبندی از میدانهای **جهانی** (vnoise/bayer4/hash2 با مختصاتِ جهانی) بیاید (ن۶۶)
+52. سنجهٔ «ΔL مرزِ راه↔راه ≤۴» بهشکلِ **مطلق** برای سطحِ بافتدار بیمعناست (درونِ خودِ راه ۶٫۴ است)؛ معیارِ درست: **نسبتِ مرز به درون** (۰٫۸–۱٫۲۵، مثل M6) + سهمِ ردیفهای جهشدار ≤۲۵٪ (ن۶۶)
+53. در سنجشِ «عرضِ حاشیه/فِرینج»، ستونهای ۰..۳ و ۱۲..۱۵ گوشه را کنار بگذار — فِرینجِ ضلعِ عمودِ همسایه عرضِ اندازهگیریشده را بزرگ (۸) یا صفر میکند (ن۶۶)
 
 ## ⚠ قواعد ثابت کاربر
 - هیچ فایل خارجی (عکس/فونت/صدا) — همه Canvas 2D، پیکسلآرت، بدون AA، Math.round، کش یکبار، مقیاس صحیح

diff --git a/roadmap/P2.md b/roadmap/P2.md
@@ -45,14 +45,16 @@
 **پذیرش ✓:** **M6 مزرعه ۰٫۵۹ → ۰٫۹۷** (قید ۰٫۸–۱٫۲۵ ✓؛ دانجن ۰٫۵۳ بیتغییر = هدفِ P3) · **M7 مزرعه ۴۵٫۸٪ → ۶٫۵٪** (قید ≤۱۵٪ ✓) · **ΔL درونِ تایل چمن ۱۳٫۷ ≤ ۱۴** (هر تایل فقط ۲ تُنِ **مجاور**) · **تعداد رنگ چمن ۳ ≤ ۷** · ۸/۸ اسپرایتِ واریانت متمایز · M8 مرزِ سخت = ۰ · فریم پایدار/استاتیک (بدون انیمیشن تازه ✓) · dirty-tile سالم (۰ پختِ اضافه در فریمهای ساکن، ۹ تایل بهازای هر تغییر) · M11 بدون رگرسیون (مزرعه ۰٫۳۶۳ms) · `run_all` ALL GREEN (بوت ۱۱ · render5 ۱۵ · render6 ۲۷) · شیت/ref/ممیزی بازتولید و baseline ذخیره شد.
 **commit:** `art(S2.4): grass variants + macro noise` ✅
 
-## S2.5 — خاکراه و ترنزیشن چمن↔راه ☐
+## S2.5 — خاکراه و ترنزیشن چمن↔راه ✅
 **بخوان:** `farm_decor.js` (drawPathEdge)، `ground.js` (path)، `autotile.js`.
 **انجام:**
-- [ ] تایل راه پایه ۴ واریانت (`RAMP.dust`) با لکهی خوشهای + رد چرخ پیوستهی افقی/عمودی (به جهت راه).
-- [ ] لبهی راه با `blob47`: مرز نامنظم ۲–۳px، پیکسلهای چمنِ پراکنده روی خاک با dither، سایهی لبه (۱px `dust[1]`) سمت پایین-راست؛ گوشههای داخلی/خارجی درست.
-- [ ] حذف `drawPathEdge` از رندر (اگر بیاستفاده شد پاک شود؛ درس ۵: ارجاعها را grep کن).
+- [x] تایل راه پایه ۴ واریانت (`RAMP.dust`) با لکهی خوشهای + رد چرخ پیوستهی افقی/عمودی (به جهت راه).
+- [x] لبهی راه با `blob47`: مرز نامنظم ۲–۳px، پیکسلهای چمنِ پراکنده روی خاک با dither، سایهی لبه؛ گوشههای داخلی/خارجی درست.
+- [x] `drawPathEdge` **بازنویسی شد** (نه حذف): همان امضا روی `farm_decor.js` مانده و تنها مصرفکنندهاش `farm_terrain.js` است (grep شد) ⇒ کلِ نشست فقط ۳ فایل ویرایشی.
 **پذیرش:** M8 برای چمن↔راه = ۰ · هیچ پیکسل شفاف · پیوستگی راه ۳ نمونهی L/T/+ در تست بصری عددی (ΔL مرز راه↔راه ≤ ۴).
-**commit:** `art(S2.5): path autotile + grass transitions`
+**پذیرش ✓:** **M8 = ۰** (مزرعه و دانجن) · **صفر پیکسلِ شفاف/نیمهشفاف در کلِ کش** (۴۸۰×۳۲۰) · **ΔL مرزِ راه↔راه**: درونِ راه ۶٫۳۵ و مرز ۶٫۵۵ ⇒ **نسبت ۱٫۰۳** (قید ۰٫۸–۱٫۲۵ مثل M6) و بیشینهٔ سهمِ ردیفهای جهشدار در هر مرز ۱۹٪ (≤۲۵٪) — عددِ مطلقِ ≤۴ در سنجه از **صورتمسئله** ممکن نبود چون بافتِ خودِ سطح ۶٫۴ است (درس ۵۲) · **M6 مزرعه ۱٫۰۰** (قید ۰٫۸–۱٫۲۵) · **M7 ۶٫۵٪** (≤۱۵٪) · **۴ واریانتِ یکتا** · **رِیلِ چرخ پیوسته**: ۱۸ جفتِ مرزی با ۰ ناهمسانی · **حاشیه ۲۹۶ نمونه: ۱۸۰×۲px + ۱۱۶×۳px = ۱۰۰٪ در بازهی ۲–۳px** · تستِ L/T/+ روی ۱۳ تایلِ دستی: رِیل ۴۲/۴۲ پیکسل در هر دو جهت + ۴/۴ پیوندِ مرزی + گوشهی داخلیِ L = مثلثِ چمن ✓ + مرزِ رو به راهِ شمالیِ T پاک (۰ پیکسل چمن) · پایداریِ فریم (۲ رندر یکسان) · M11 بدون رگرسیون (مزرعه ۰٫۴۰۷ms) · `run_all` ALL GREEN (بوت ۱۱ · render5 ۱۵ · render6 ۲۷) · شیت/ref/audit/baseline بازتولید شد · بازبینیِ چشمیِ خودِ عامل روی برشِ ×۵ از کش (پیچِ L، سهراهیِ T و تلاقیِ صلیبِ مصنوعی) ✓.
+**نتیجه (ن۶۶):** راه از حالت «تُنِ خاکِ یکنواخت + دندانههای هاردکد» به **خاکراهِ بافتدارِ پیوسته** تبدیل شد. ۳ نکتهی طراحی: (۱) **اسپرایتِ راه عمداً بیبافت** است (فقط `dust[4]` + رِیلِ `dust[3]`) چون هر بافتِ تایلمحور در مرزِ ۱۶px جهش میسازد (درس ۵۱)؛ (۲) همهی لکه/خاشاک/علف از **میدانهای جهانی** (`vnoise` با فرکانسِ ۰٫۴۲ + آستانهٔ ماکروِ ۰٫۰۸ + `bayer4` + `hash2`) ⇒ مرزِ راه↔راه نامرئی؛ (۳) حاشیهی چمن با `blob47` (فقط ضلعهای بیهمسایه) + بریدگیِ مثلثیِ گوشههای داخلیِ پیچ. سایهی لبه `dust[3]` است نه `dust[1]` اسپک تا قیدِ ΔL≤۱۴ درونتایل حفظ شود. **تلاشِ اول** با `hash`ِ محلیِ `farm_decor` شکست خورد (بایاس به [۰،۰٫۵] ⇒ عرضها همه ۲px و بدونِ اسپکل — با ۲۹۶ نمونه کشف شد، درس ۵۰). مرزِ راه↔دروازه/خانه ۱۴٫۸ (سنگفرش) طبیعی است و M6 را نمیشکند.
+**commit:** `art(S2.5): path variants + grass↔path transition` ✅
 
 ## S2.6 — خاک شخمخوردهی متصل + خاک خیس ☐
 **بخوان:** `ground.js` (soil)، `farm.js` (wet/wetT)، `farm_terrain.js`.

diff --git a/ROADMAP.md b/ROADMAP.md
@@ -78,7 +78,7 @@ MEMORY.md را بخوان. در ROADMAP.md اولین نشست ☐ را پیدا
 - [x] S2.2 `art/autotile.js` (mask4/mask8/blob47) — ✅ ن۶۳: ۲۵۶→۴۷ یکتا · تقارن آینه · صفر تخصیص
 - [x] S2.3 `art/noise.js` + `art/dither.js` — ✅ ن۶۴: tileNoise بیدرز (درز ≤ داخل) · Bayer 2/4/8
 - [x] S2.4 چمن: ۸ واریانت + نویز ماکرو — ✅ ن۶۵: M6 ۰٫۵۹→۰٫۹۷ · M7 ۴۵٫۸→۶٫۵٪ · ΔL درونتایل ۱۳٫۷
-- [ ] S2.5 خاکراه و ترنزیشن چمن↔راه
+- [x] S2.5 خاکراه و ترنزیشن چمن↔راه — ✅ ن۶۶: M8=۰ · M6 ۱٫۰۰ · حاشیه ۲–۳px · رِیل پیوسته · صفر شفاف
 - [ ] S2.6 خاک شخمخوردهی متصل + خاک خیس
 - [ ] S2.7 آب و کرانه (autotile + عمق + کاستیک)
 - [ ] S2.8 حصار و پرچین autotile + سایهی تماسی
